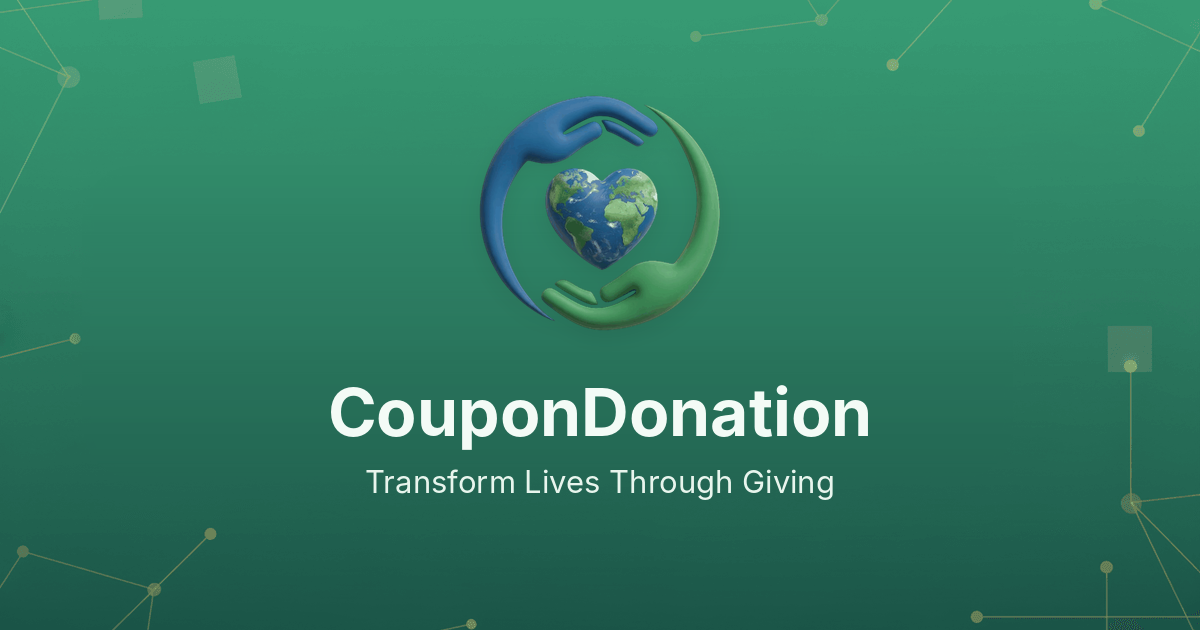
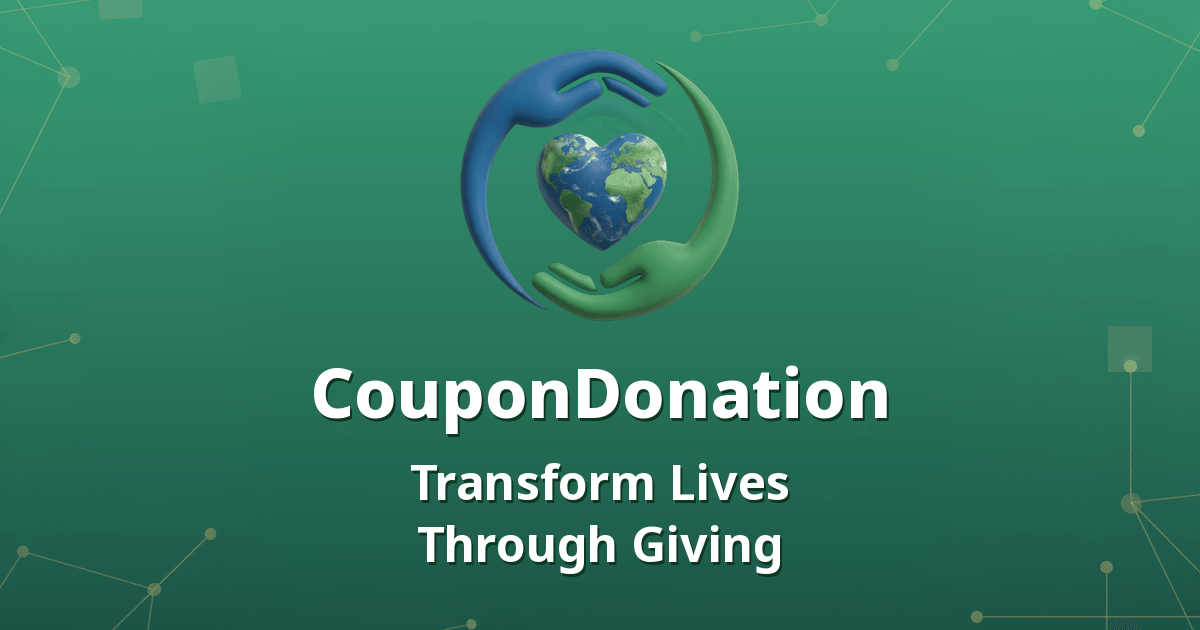
Sharper share image: bigger bold name and tagline readable in small thumbnails (v=4)

diff --git a/index.html b/index.html
@@ -68,7 +68,7 @@
     <meta property="og:type" content="website" data-rh="true" />
     <meta property="og:title" content="CouponDonation: World&#39;s Most Trusted Crowdfunding Platform" data-rh="true" />
     <meta property="og:description" content="World&#39;s most trusted crowdfunding platform. CouponDonation is transforming giving: donated money becomes coupons, with trackable, transparent giving for every donor." data-rh="true" />
-    <meta property="og:image" content="https://coupondonation.com/og-image.png?v=3" data-rh="true" />
+    <meta property="og:image" content="https://coupondonation.com/og-image.png?v=4" data-rh="true" />
     <meta property="og:image:width" content="1200" data-rh="true" />
     <meta property="og:image:height" content="630" data-rh="true" />
     <meta property="og:image:alt" content="CouponDonation logo with the line Transform Lives Through Giving" data-rh="true" />
@@ -77,7 +77,7 @@
     <meta name="twitter:card" content="summary_large_image" data-rh="true" />
     <meta name="twitter:title" content="CouponDonation: World&#39;s Most Trusted Crowdfunding Platform" data-rh="true" />
     <meta name="twitter:description" content="World&#39;s most trusted crowdfunding platform. CouponDonation is transforming giving: donated money becomes coupons, with trackable, transparent giving for every donor." data-rh="true" />
-    <meta name="twitter:image" content="https://coupondonation.com/og-image.png?v=3" data-rh="true" />
+    <meta name="twitter:image" content="https://coupondonation.com/og-image.png?v=4" data-rh="true" />
 
     <!-- Who we are, for search engines and AI assistants. Keep every claim true (AGENTS.md, Legal). -->
     <script type="application/ld+json">
@@ -89,7 +89,7 @@
       "alternateName": ["Coupon Donation", "CouponDonation.com"],
       "url": "https://coupondonation.com/",
       "logo": "https://coupondonation.com/favicon-512.png",
-      "image": "https://coupondonation.com/og-image.png?v=3",
+      "image": "https://coupondonation.com/og-image.png?v=4",
       "slogan": "Give what people need.",
       "description": "CouponDonation is a US giving platform where people ask for help with a specific need and donors give store gift cards and coupons for it, such as groceries, medicine, rides and household essentials. Gifts are not cash and are not tax-deductible.",
       "email": "support@coupondonation.com",

diff --git a/supabase/functions/_shared/share-preview.ts b/supabase/functions/_shared/share-preview.ts
@@ -14,7 +14,7 @@
 
 export const SITE = 'https://coupondonation.com';
 export const SHARE_HOST = 'https://share.coupondonation.com';
-export const FALLBACK_IMAGE = { url: `${SITE}/og-image.png?v=3`, width: 1200, height: 630, type: 'image/png' };
+export const FALLBACK_IMAGE = { url: `${SITE}/og-image.png?v=4`, width: 1200, height: 630, type: 'image/png' };
 export const DEFAULT_TITLE = "CouponDonation: World's Most Trusted Crowdfunding Platform";
 export const DEFAULT_DESCRIPTION = "World's most trusted crowdfunding platform. CouponDonation is transforming giving: donated money becomes coupons, with trackable, transparent giving for every donor.";
 

diff --git a/supabase/functions/_shared/share-preview_test.ts b/supabase/functions/_shared/share-preview_test.ts
@@ -105,7 +105,7 @@ Deno.test('preview page: escaped tags, og:url is the shared link, no meta refres
   assertStringIncludes(page, 'noindex');
   assert(!/http-equiv="refresh"/i.test(page));
   assert(!page.includes('<now>'));
-  assertEquals(FALLBACK_IMAGE.url, 'https://coupondonation.com/og-image.png?v=3');
+  assertEquals(FALLBACK_IMAGE.url, 'https://coupondonation.com/og-image.png?v=4');
 });
 
 Deno.test('a new main photo gets a new image link', () => {

diff --git a/src/lib/seo.ts b/src/lib/seo.ts
@@ -1,7 +1,7 @@
 /** Shared search helpers: the canonical address of a page, snippet trimming and structured data. */
 
 export const SITE = "https://coupondonation.com";
-export const DEFAULT_SHARE_IMAGE = `${SITE}/og-image.png?v=3`;
+export const DEFAULT_SHARE_IMAGE = `${SITE}/og-image.png?v=4`;
 
 /** One canonical form per page: no query string, no hash, no trailing slash (except the homepage). */
 export function canonicalUrl(path: string) {

diff --git a/src/AGENTS.md b/src/AGENTS.md
@@ -6,5 +6,5 @@
 - Lovable pre-renders pages for verified crawlers (search engines, AI crawlers, social previews) at request time, and content that loads late can be missed: landing pages keep answers in the HTML (no closed accordions; the FAQ page uses forceMount) and lists load in one small query.
 - Landing pages: /help/:need (src/data/needs.ts), the ways to give (src/data/givePages.ts) and /gofundme-alternative (sourced; recheck GoFundMe's facts before editing). Add one only with real, specific content: no city, store or keyword pages generated in bulk (Google's scaled-content policy). New pages go in public/sitemap.xml, the footer and public/llms.txt.
 - public/robots.txt keeps one `User-agent: *` group (a bot named in its own group ignores the Disallow lines). Open, real fundraisers and blog posts are listed by the `sitemap` edge function named in robots.txt (plain-text format, because Supabase serves function responses as text/plain); new or edited fundraisers ping IndexNow through the `indexnow` function, whose key file public/88cc93917332877d9126bf9574635250.txt must never be removed.
-- The share image is public/og-image.png (1200×630): the founder-chosen green version (logo, "CouponDonation", "Transform Lives Through Giving", faint star lines), restored Nov 17, 2026, then laid out centered (logo above the name and line, same green background and star lines) so WhatsApp’s square thumbnail shows the whole logo and name; linked as og-image.png?v=3 everywhere (index.html, src/lib/seo.ts, share-preview FALLBACK_IMAGE). Keep this image; a new one needs a new ?v= so apps fetch it again.
+- The share image is public/og-image.png (1200×630): the founder-chosen green version (logo, "CouponDonation", "Transform Lives Through Giving", faint star lines), restored Nov 17, 2026, then laid out centered (logo above the name and line, same green background and star lines) so WhatsApp’s square thumbnail shows the whole logo and name; redrawn Nov 18, 2026 with a larger bold name and a two-line bold tagline inside the middle square so small thumbnails stay readable; linked as og-image.png?v=4 everywhere (index.html, src/lib/seo.ts, share-preview FALLBACK_IMAGE). Keep this image; a new one needs a new ?v= so apps fetch it again.
 - Favicons live in public/. favicon.ico, favicon-16.png, favicon-32.png and favicon.png (48) are a bolder, edge-to-edge version of the logo made for tab sizes (thicker hands; the heart keeps the logo's proportion, about 47% of the width, founder's call in Oct 2026); favicon-192/512 are the original logo cropped to the edge; apple-touch-icon.png and icon-maskable-*.png put it on white. Keep the logo filling the icon (no empty margin), and bump the ?v= on the icon links in index.html when the files change.
